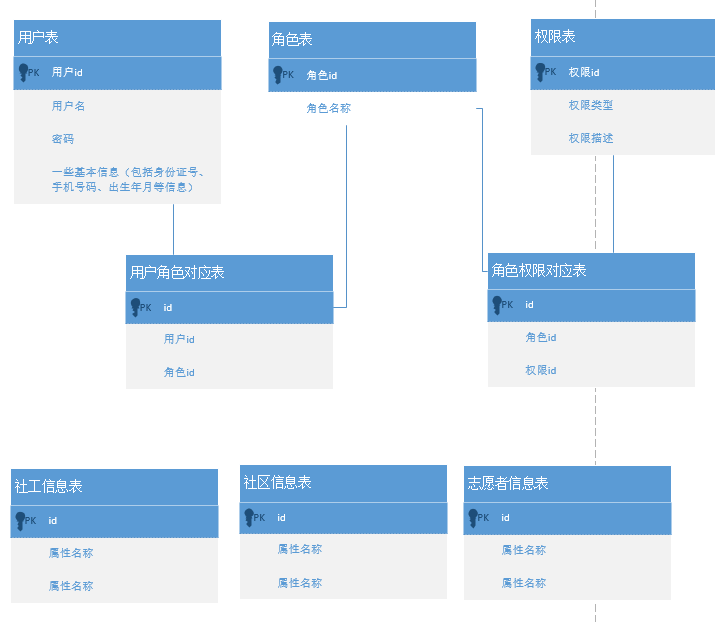
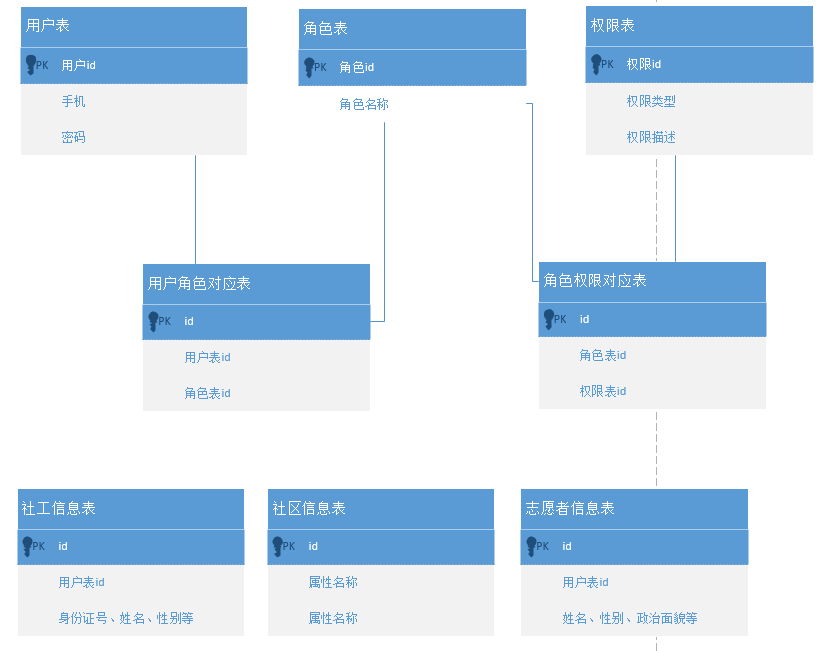
update

diff --git a/README.md b/README.md
@@ -7,7 +7,7 @@ service-user是用户模块，负责处理用户部分的逻辑。
 ### 项目启动过程  
 1.在IDEA中直接打开项目，选择用Maven导入  
 2.在IDEA右侧选项卡中的Maven Project，展开gongyijia选项，展开Lifecycle选项，双击install完成整体项目的构建。  
-    ![image](https://github.com/Github652911031/gongyijia/blob/master/image/%E5%BE%AE%E4%BF%A1%E6%88%AA%E5%9B%BE_20200227230557.png)  
+见image文件夹下1.png
 3.展开service-common选项，和2一样，双击install完成common的构建。
 4.启动Consul注册中心。（Consul需要另外下载，可自行百度启动命令）
 5.更改gateway和user模块下的配置文件application-dev.yml和application-prod.yml(具体运行的时候使用哪个配置  
@@ -43,5 +43,15 @@ expire:过期时间
 创建相应的表结构，但是在application-dev.yml中定义了spring.jpa.hibernate.ddl-auto为create，  
 因此每次启动工程的时候都会把原来的表删除并重新创建表，同时导入import.sql文件中的数据。如果不需要每次  
 都将数据清空，可以改为update  
-数据库设计如下：
-![image]()
+数据库设计见image文件夹2.png
+
+ 
+* 用户表  
+ 用户表仅仅保存用户名（也就是手机号）和密码，用户表里的用户有四种角色:普通用户、社工、志愿者、超级用户。
+ 普通用户通过申请可以成为志愿者，通过认证可以成为社工。
+* 社工信息表  
+ 用于存储社工的具体信息，通过id和用户表进行关联
+* 志愿者表
+ 用于存储志愿者的具体信息，通过id和用户表进行关联
+* 社区信息表
+ 存储社区的信息
